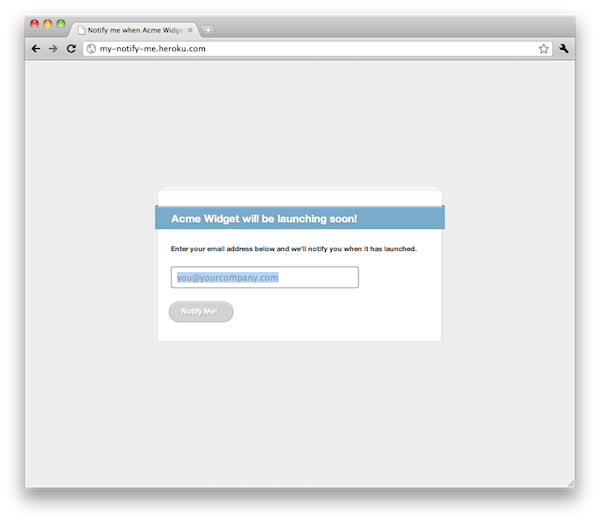
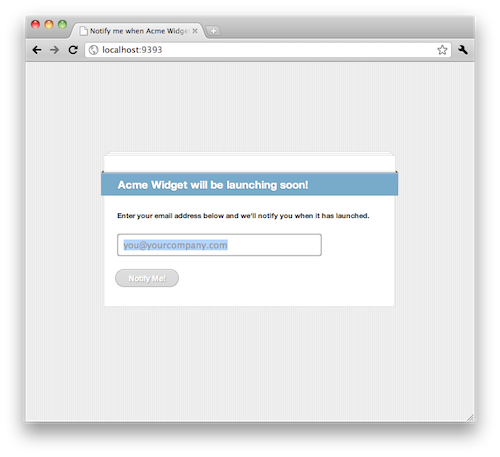
add 1px highlight, update screenshot

Changed region(s): [[0.03, 0.0306, 0.96, 0.9497], [0.18, 0.3676, 0.81, 0.6433], [0.63, 0.5208, 0.66, 0.5514]]

diff --git a/public/notify-me.css b/public/notify-me.css
@@ -6,7 +6,7 @@ body {
 }
 
 #container {
-  margin: 200px auto;
+  margin: 20% auto;
   width: 500px; }
   #container #boxtop {
     background: url(/boxtop.png) top left no-repeat;
@@ -108,13 +108,13 @@ body {
 
 /*button styles for notify-me*/
 button.awesome, a.awesome, .awesome.enabled {
+  -moz-box-shadow: inset 0 1px 0 rgba(255,255,255, .5);
+  -webkit-box-shadow: inset 0 1px 0 rgba(255,255,255, .5);
+  box-shadow:inset 0 1px 0 rgba(255,255,255, .5);
   background-color:#d3d3d3;
   -moz-border-radius:15px;
   -webkit-border-radius:15px;
   border-radius:15px;
-  -moz-box-shadow:none;
-  -webkit-box-shadow:none;
-  box-shadow:none;
   border:1px solid rgba(0,0,0,0.2);
   font-size:1.2em;
   text-shadow: 1px 1px 0 rgba(0,0,0,0.3);
